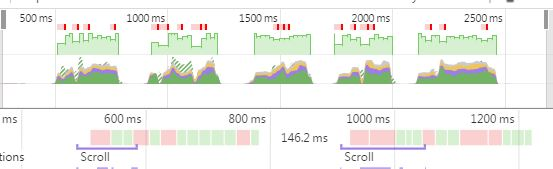
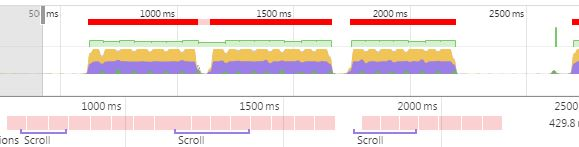
refactor: Put updatePositions back

diff --git a/views/js/main.js b/views/js/main.js
@@ -485,6 +485,8 @@ function logAverageFrame(times) {   // times is the array of User Timing measure
   console.log("Average scripting time to generate last 10 frames: " + sum / 10 + "ms");
 }
 
+/* My non-moving pizzas
+
 var items;
 
 // The following code for sliding background pizzas was pulled from Ilya's demo found at:
@@ -503,10 +505,76 @@ function updatePositions() {
 
   /* moving this out of the function - only need this once!
     var items = document.getElementsByClassName("mover"); */
+//   for (var i = 0; i < items.length; i++) {
+//     /* removed: var phase = Math.sin((document.body.scrollTop / 1250) + (i % 5));
+//        because the sin function is calculating the same five number every time
+//        through the loop. */
+//     items[i].style.left = items[i].basicLeft + 100 * phases[i % 5] + 'px';
+//   }
+
+//   // User Timing API to the rescue again. Seriously, it's worth learning.
+//   // Super easy to create custom metrics.
+//   window.performance.mark("mark_end_frame");
+//   window.performance.measure("measure_frame_duration", "mark_start_frame", "mark_end_frame");
+//   if (frame % 10 === 0) {
+//     var timesToUpdatePosition = window.performance.getEntriesByName("measure_frame_duration");
+//     logAverageFrame(timesToUpdatePosition);
+//   }
+// }
+
+// // runs updatePositions on scroll
+// // window.addEventListener('scroll', updatePositions);
+
+// // Generates the sliding pizzas when the page loads.
+// document.addEventListener('DOMContentLoaded', function() {
+//   var cols = 8;
+//   var s = 256;
+
+//   /* pulled this out of the for loop and replaced querySelector with
+//     getElementById */
+//   var movingPizzas = document.getElementById('movingPizzas1');
+
+//   var phases = [Math.sin(0), Math.sin(1), Math.sin(2), Math.sin(3), Math.sin(4)];
+
+//   /* the original for loop went 200 times. Reduced to 40 and pizzas still fill
+//   the frame */
+//   for (var i = 0; i < 40; i++) {
+//     var elem = document.createElement('img');
+//     elem.className = 'mover';
+//     elem.src = "images/pizza.png";
+//     elem.style.height = "100px";
+//     elem.style.width = "73.333px";
+//     // elem.basicLeft = (i % cols) * s;
+
+//     // replicating static pizza placement from updatePositions function above
+//     elem.style.left = ((i % cols) * s) + 100 * phases[i % 5] + 'px';
+
+//     elem.style.top = (Math.floor(i / cols) * s) + 'px';
+
+//     /* moved the selector out of the loop */
+//     movingPizzas.appendChild(elem)
+//   }
+//   items = document.getElementsByClassName("mover");
+//   // updatePositions();
+// });
+
+// Moves the sliding background pizzas based on scroll position
+
+var items;
+
+function updatePositions() {
+  frame++;
+  window.performance.mark("mark_start_frame");
+  var topPosition = document.body.scrollTop / 1250;
+  var phases = [];
+  for (var i = 0; i < 5; i++) {
+    phases.push(Math.sin(topPosition + (i % 5)));
+  }
+  // console.log(phases[0], phases[1], phases[2]);
+
+  // items = document.getElementsByClassName('mover');
   for (var i = 0; i < items.length; i++) {
-    /* removed: var phase = Math.sin((document.body.scrollTop / 1250) + (i % 5));
-       because the sin function is calculating the same five number every time
-       through the loop. */
+    // var phase = Math.sin((document.body.scrollTop / 1250) + (i % 5));
     items[i].style.left = items[i].basicLeft + 100 * phases[i % 5] + 'px';
   }
 
@@ -521,37 +589,24 @@ function updatePositions() {
 }
 
 // runs updatePositions on scroll
-// window.addEventListener('scroll', updatePositions);
+window.addEventListener('scroll', updatePositions);
 
 // Generates the sliding pizzas when the page loads.
 document.addEventListener('DOMContentLoaded', function() {
   var cols = 8;
   var s = 256;
-
-  /* pulled this out of the for loop and replaced querySelector with
-    getElementById */
   var movingPizzas = document.getElementById('movingPizzas1');
 
-  var phases = [Math.sin(0), Math.sin(1), Math.sin(2), Math.sin(3), Math.sin(4)];
-
-  /* the original for loop went 200 times. Reduced to 40 and pizzas still fill
-  the frame */
-  for (var i = 0; i < 40; i++) {
+  for (var i = 0; i < 35; i++) {
     var elem = document.createElement('img');
     elem.className = 'mover';
     elem.src = "images/pizza.png";
     elem.style.height = "100px";
     elem.style.width = "73.333px";
-    // elem.basicLeft = (i % cols) * s;
-
-    // replicating static pizza placement from updatePositions function above
-    elem.style.left = ((i % cols) * s) + 100 * phases[i % 5] + 'px';
-
+    elem.basicLeft = (i % cols) * s;
     elem.style.top = (Math.floor(i / cols) * s) + 'px';
-
-    /* moved the selector out of the loop */
-    movingPizzas.appendChild(elem)
+    movingPizzas.appendChild(elem);
   }
-  items = document.getElementsByClassName("mover");
-  // updatePositions();
+  items = document.getElementsByClassName('mover');
+  updatePositions();
 });

diff --git a/views/css/style.css b/views/css/style.css
@@ -33,7 +33,7 @@ form {
   position: fixed;
   width: 256px;
   z-index: -1;
-  /*backface-visibility: hidden;*/
+  backface-visibility: hidden;
 }
 
 .randomPizzaContainer {
